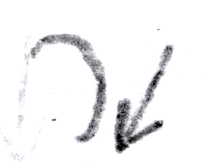
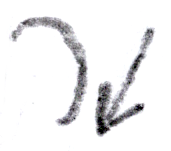
👋 Piano Motion Symbols: Extended Wrist Turn section.

diff --git a/methods/piano-motion-symbols.md b/methods/piano-motion-symbols.md
@@ -50,36 +50,23 @@ Nuance, like press *a little* or move *a lot*, may be written down like this:
 |----------------:|:----------------------------------------------------------:|:---------------------------------------------------------:|:--------------------------------------------------------------:|:------------------------------------------------------------:|
 |       __Press__ | <img src="images/press-restfully.png" height="30" />       | <img src="images/press-slightly.png" height="30" />       | <img src="images/press-right.png" height="30" />               | <img src="images/press-exaggerated.png" height="30" />       |
 |        __Move__ | <img src="images/move-restfully.png" height="30" />        | <img src="images/move-slightly.png" height="30" />        | <img src="images/move-into-keys-right.png" height="30" /> | <img src="images/move-exaggerated.png" height="30" />        |
-| __Tight Wrist__ | <img src="images/wrist-tight-restfully.png" height="30" /> | <img src="images/wrist-tight-slightly.png" height="30" /> | <img src="images/wrist-pronounced-tight.png" height="30" />    | <img src="images/wrist-tight-exaggerated.png" height="20" /> |
-| __Loose Wrist__ | <img src="images/wrist-loose-restfully.png" height="30" /> | <img src="images/wrist-loose-slightly.png" height="30" /> | <img src="images/wrist-curved-loose.png" height="30" />        | <img src="images/wrist-loose-exaggerated.png" height="30" /> |
-
-### Finger Enunciation
-
-|                                                                                  |                          |
-|----------------------------------------------------------------------------------|--------------------------|
-| <img src="images/finger-move-restfully-right.png" height="45" />                 | Move fingers restfully   |
-| <img src="images/finger-move-slightly-right.png" height="45" />                  | Move fingers slightly    |
-| <img src="images/finger-move-into-keys-or-towards-face-right.png" height="45" /> | Move fingers normally    |
-| <img src="images/finger-move-exaggerated-right.png" height="45" />               | Move fingers exaggerated |
+| __Tight Wrist__ | <img src="images/wrist-tight-restfully.png" height="30" /> | <img src="images/wrist-tight-slightly.png" height="30" /> | <img src="images/wrist-tight-pronounced.png" height="30" />    | <img src="images/wrist-tight-exaggerated.png" height="20" /> |
+| __Loose Wrist__ | <img src="images/wrist-loose-restfully.png" height="30" /> | <img src="images/wrist-loose-slightly.png" height="30" /> | <img src="images/wrist-loose-curved.png" height="30" />        | <img src="images/wrist-loose-exaggerated.png" height="30" /> |
 
 ### Tension & Release
 
-|                                                                  |                          |                                                         |
-|:----------------------------------------------------------------:|--------------------------|---------------------------------------------------------|
-| <img src="images/reach-side-ways-right.png" height="30" />       | Reach sideways           | Then let go, move hand back.                            |
-| <img src="images/reach-side-ways-left.png" height="30" />        | Reach sideways           | Then let go, move hand back.                            |
-| <img src="images/stretch.png" height="30" />                     | Stretch                  | Stretching fingers wider. But trying to release soon.   |
-| <img src="images/reach-black-keys.png" height="30" />            | Reach black keys         | If arpeggiated, might prefer crossing over instead.     |
-| <img src="images/reach-white-keys.png" height="30" />            | Reach white keys         | If arpeggiated, might prefer crossing over instead.     |
-| <img src="images/stretch-diagonally.png" height="30" />          | Stretch diagonally       | Composite of stretch sideways and reach for black keys. |
-| <img src="images/finger-move-into-keys-right.png" height="45" /> | Finger move into keys    | Pressure coming out of the fingers.                     |
-| <img src="images/arm-move-into-keys-right.png" height="45" />    | Arm move into key        | Pressure coming out of the arm.                         |
-| <img src="images/hand-resting-on-keys.png" height="30" />        | Hand resting on keys     |                                                         |
-| <img src="images/hand-resting-on-lap.png" height="30" />         | Hand resting on lap      |                                                         |
-| <img src="images/wrist-pronounced-tight.png" height="30" />      | Pronounced wrist tight   |                                                         |
-| <img src="images/wrist-curved-loose.png" height="30" />          | Curved wrist loose       |                                                         |
-| <img src="images/wrist-curved-stationary.png" height="30" />     | Curved wrist stationary  |                                                         |
-| <img src="images/wrist-pronounced-pressed.png" height="30" />    | Pronounced wrist pressed |                                                         |
+|                                                                   |                          |                                                         |
+|:-----------------------------------------------------------------:|--------------------------|---------------------------------------------------------|
+| <img src="images/reach-side-ways-right.png" height="30" />        | Reach sideways           | Then let go, move hand back.                            |
+| <img src="images/reach-side-ways-left.png" height="30" />         | Reach sideways           | Then let go, move hand back.                            |
+| <img src="images/stretch.png" height="30" />                      | Stretch                  | Stretching fingers wider. But trying to release soon.   |
+| <img src="images/reach-black-keys.png" height="30" />             | Reach black keys         | If arpeggiated, might prefer crossing over instead.     |
+| <img src="images/reach-white-keys.png" height="30" />             | Reach white keys         | If arpeggiated, might prefer crossing over instead.     |
+| <img src="images/stretch-diagonally.png" height="30" />           | Stretch diagonally       | Composite of stretch sideways and reach for black keys. |
+| <img src="images/finger-press-into-keys-right.png" height="45" /> | Finger move into keys    | Pressure coming out of the fingers.                     |
+| <img src="images/arm-press-into-keys-right.png" height="45" />    | Arm move into key        | Pressure coming out of the arm.                         |
+| <img src="images/hand-resting-on-keys.png" height="30" />         | Hand resting on keys     |                                                         |
+| <img src="images/hand-resting-on-lap.png" height="30" />          | Hand resting on lap      |                                                         |
 
 ### Jumps
 
@@ -105,9 +92,9 @@ May feel semi-smooth.
 
 ### Fingers
 
-A specific amount of fingers might displayed.  
 This might be used to say something specific about a finger in terms of motion, tension or otherwise.  
-There are 3 flavors here: flat fingers, pronounced fingers and high / curved fingers.  
+
+#### Finger Position (Single / Multiple)
 
 |                      | Flat Fingers                                             | Pronounced Fingers                                        | Curved / High Fingers                                      |
 |----------------------|:--------------------------------------------------------:|:---------------------------------------------------------:|:----------------------------------------------------------:|
@@ -118,12 +105,27 @@ There are 3 flavors here: flat fingers, pronounced fingers and high / curved fin
 | __4 Fingers__        | <img src="images/4-fingers-flat.png" height="30" />      | <img src="images/4-fingers-pronounced.png" height="30" /> | <img src="images/4-fingers-curved.png" height="30" />      |
 | __5 Fingers__        | <img src="images/5-fingers-flat.png" height="30" />      | <img src="images/5-fingers-pronounced.png" height="30" /> | <img src="images/5-fingers-curved.png" height="30" />      |
 
+#### Fingers Stationary
+
+#### Finger Enunciation
+
+|                                                                                  |                          |
+|----------------------------------------------------------------------------------|--------------------------|
+| <img src="images/finger-move-restfully-right.png" height="45" />                 | Move fingers restfully   |
+| <img src="images/finger-move-slightly-right.png" height="45" />                  | Move fingers slightly    |
+| <img src="images/finger-move-into-keys-or-towards-face-right.png" height="45" /> | Move fingers normally    |
+| <img src="images/finger-move-exaggerated-right.png" height="45" />               | Move fingers exaggerated |
+
+#### Finger Switch
+
 |                                                                       |                                    |                                                     |
 |:---------------------------------------------------------------------:|------------------------------------|-----------------------------------------------------|
 | <img src="images/switch-finger-in-place.png" height="30" />           | Switch finger (in place)           | Part of existing fingering notation.                |
 | <img src="images/switch-finger-at-different-times.png" height="30" /> | Switch finger (at different times) | At different times same key with different fingers. |
 
 ### Wrist
+
+#### Wrist Position
 
 |                                                                |                             |                                                              |                                             |                                                                    |                                           |                                                                    |                            |
 |:--------------------------------------------------------------:|-----------------------------|:------------------------------------------------------------:|---------------------------------------------|:------------------------------------------------------------------:|-------------------------------------------|:------------------------------------------------------------------:|----------------------------|
@@ -143,7 +145,7 @@ There are 3 flavors here: flat fingers, pronounced fingers and high / curved fin
 | <img src="images/wrist-move-left-variation-1.png" height="30" />   | Wrist move<br/>(left / variation 1) | <img src="images/wrist-move-right-variation-1.png" height="30" />         | Wrist move<br/>(right / variation 1)       | <img src="images/wrist-move-right-and-left-variation-1.png" height="30" />   | Wrist move<br/>(right and left / variation 1) |
 | <img src="images/wrist-move-left-variation-2.png" height="45" />   | Wrist move<br/>(left / variation 2) | <img src="images/wrist-move-right-variation-2.png" height="45" />         | Wrist move<br/>(right / variation 2)       | <img src="images/wrist-move-right-and-left-variation-2.png" height="45" />   | Wrist move<br/>(right and left / variation 2) |
 | <img src="images/wrist-move-into-keys.png" height="30" />          | Wrist move<br/>(into keys)          | <img src="images/wrist-move-into-keys-or-towards-face.png" height="40" /> | Wrist move<br/>(into keys or towards face) | <img src="images/wrist-move-towards-face.png" height="30" />                 | Wrist move<br/>(towards face)                 |
-| <img src="images/wrist-move-towards-black-keys.png" height="45" /> | Wrist Move<br/>(towards black keys) | <img src="images/wrist-move-towards-white-keys.png" height="45" />        | Wrist move<br/>(towards white keys)        | <img src="images/wrist-move-towards-black-and-white-keys.png" height="45" /> | Wrist move<br/>(towards black and white keys) |
+| <img src="images/wrist-move-towards-black-keys.png" height="45" /> | Wrist move<br/>(towards black keys) | <img src="images/wrist-move-towards-white-keys.png" height="45" />        | Wrist move<br/>(towards white keys)        | <img src="images/wrist-move-towards-black-and-white-keys.png" height="45" /> | Wrist move<br/>(towards black and white keys) |
 
 These wrist *moves* may the same as wrist *turning*:
 
@@ -151,8 +153,8 @@ These wrist *moves* may the same as wrist *turning*:
 |:------------------------------------------------------------------------:|---------------------------------------------|:------------------------------------------------------------------------:|---------------------------------------------|:----------------------------------------------------------------------------------:|-------------------------------------------------------|
 | <img src="images/wrist-move-into-keys-left.png" height="30" />           | Wrist move<br/>(into keys / left)           | <img src="images/wrist-move-towards-face-left.png" height="30" />        | Wrist move<br/>(towards face / left)        | <img src="images/wrist-move-into-keys-or-towards-face-left.png" height="30" />     | Wrist move<br/>(into keys or towards face / left)     |
 | <img src="images/wrist-move-into-keys-right.png" height="30" />          | Wrist move<br/>(into keys / right)          | <img src="images/wrist-move-towards-face-right.png" height="30" />       | Wrist move<br/>(towards face / right)       | <img src="images/wrist-move-into-keys-or-towards-face-right.png" height="30" />    | Wrist move<br/>(into keys or towards face / right)    |
-| <img src="images/wrist-move-towards-black-keys-right.png" height="45" /> | Wrist Move<br/>(towards black keys / right) | <img src="images/wrist-move-towards-white-keys-right.png" height="45" /> | Wrist move<br/>(towards white keys / right) | <img src="images/wrist-move-towards-black-and-white-keys-right.png" height="45" /> | Wrist move<br/>(towards black and white keys / right) |
-| <img src="images/wrist-move-towards-black-keys-left.png" height="45" />  | Wrist Move<br/>(towards black keys / left)  | <img src="images/wrist-move-towards-white-keys-left.png" height="45" />  | Wrist move<br/>(towards white keys / left)  | <img src="images/wrist-move-towards-black-and-white-keys-left.png" height="45" />  | Wrist move<br/>(towards black and white keys / left)  |
+| <img src="images/wrist-move-towards-black-keys-right.png" height="45" /> | Wrist move<br/>(towards black keys / right) | <img src="images/wrist-move-towards-white-keys-right.png" height="45" /> | Wrist move<br/>(towards white keys / right) | <img src="images/wrist-move-towards-black-and-white-keys-right.png" height="45" /> | Wrist move<br/>(towards black and white keys / right) |
+| <img src="images/wrist-move-towards-black-keys-left.png" height="45" />  | Wrist move<br/>(towards black keys / left)  | <img src="images/wrist-move-towards-white-keys-left.png" height="45" />  | Wrist move<br/>(towards white keys / left)  | <img src="images/wrist-move-towards-black-and-white-keys-left.png" height="45" />  | Wrist move<br/>(towards black and white keys / left)  |
 
 A composite, to show some flexibility:
 
@@ -171,20 +173,34 @@ Is usually downward, not likely in any other direction.
 
 #### Wrist Turn
 
-|                                                               |                                   |                                                              |                                  |                                                                  |                                       |
-|:-------------------------------------------------------------:|-----------------------------------|:------------------------------------------------------------:|----------------------------------|:----------------------------------------------------------------:|---------------------------------------|
-| <img src="images/wrist-turn-right.png" height="30" />         | Wrist turn (right) / 'pivot'      | <img src="images/wrist-turn-left.png" height="30" />         | Wrist turn (left) / 'pivot'      | <img src="images/wrist-turn-right-and-left.png" height="30" />   | wrist turn (right and left) / 'pivot' |
-| <img src="images/wrist-turn-forward-right.png" height="45" /> | Wrist turn forward (right) / flap | <img src="images/wrist-turn-forward-left.png" height="45" /> | Wrist turn forward (left) / flap | <img src="images/wrist-turn-facing-you-right.png" height="30" /> | wrist turn (facing you / right)       |
+|                                                                            |                                                    |                                                                            |                                                 |                                                                           |                                          |
+|:--------------------------------------------------------------------------:|----------------------------------------------------|:--------------------------------------------------------------------------:|-------------------------------------------------|:-------------------------------------------------------------------------:|------------------------------------------|
+| <img src="images/wrist-turn-right.png" height="30" />                      | Wrist turn (right) / 'pivot'                       | <img src="images/wrist-turn-left.png" height="30" />                       | Wrist turn (left) / 'pivot'                     | <img src="images/wrist-turn-right-and-left.png" height="30" />            | wrist turn (right and left) / 'pivot'    |
+| <img src="images/wrist-turn-facing-you-right.png" height="30" />           | wrist turn (facing you / right)                    | <img src="images/wrist-turn-facing-you-left.png" height="30" />            | wrist turn (facing you / left)                  | <img src="images/wrist-turn-facing-you-right-and-left.png" height="30" /> | wrist turn (facing you / right and left) |
+| <img src="images/wrist-turn-forward-right.png" height="45" />              | Wrist turn (forward / right) / 'flap'              | <img src="images/wrist-turn-forward-left.png" height="45" />               | Wrist turn forward (left) / 'flap'              |                                                                           |                                          |
+| <img src="images/wrist-turn-backward-right.png" height="45" />             | Wrist turn (backward / right) / 'flap'             | <img src="images/wrist-turn-backward-left.png" height="45" />              | Wrist turn backward (left) / 'flap'             |                                                                           |                                          |
+| <img src="images/wrist-turn-forward-and-backward-right.png" height="45" /> | Wrist turn (forward and backward / right) / 'flap' | <img src="images/wrist-turn-forward-and-backward-left.png" height="45" />  | Wrist turn forward and backward (left) / 'flap' |                                                                           |                                          |
+
+#### Wrist Stress
+
+(Combined with wrist positions.)
+
+|                                                               |                            |                                                               |                            |
+|:-------------------------------------------------------------:|----------------------------|:-------------------------------------------------------------:|----------------------------|
+| <img src="images/wrist-tight-flat-fingers.png" height="30" /> | Wrist tight (flat fingers) | <img src="images/wrist-loose-flat-fingers.png" height="30" /> | Wrist loose (flat fingers) |
+| <img src="images/wrist-tight-pronounced.png" height="30" />   | Wrist tight (pronounced)   | <img src="images/wrist-loose-pronounced.png" height="30" />   | Wrist loose (pronounced)   |
+| <img src="images/wrist-tight-curved.png" height="30" />       | Wrist tight (curved)       | <img src="images/wrist-loose-curved.png" height="30" />       | Wrist loose (curved)       |
+| <img src="images/wrist-tight-high.png" height="45" />         | Wrist tight (high)         | <img src="images/wrist-loose-high.png" height="45" />         | Wrist loose (high)         |
 
 ### Torso
 
-|                                                            |                                      |
-|:----------------------------------------------------------:|--------------------------------------|
-| <img src="images/torso-plus-arms.png" height="30" />       | Torso (+ arms)                       |
-| <img src="images/torso-sway-right.png" height="30" />      | Torso sway (right)                   |
-| <img src="images/torso-sway-left.png" height="30" />       | Torso sway (left)                    |
-| <img src="images/torso-tilt-forward.png" height="30" />    | Torso tilt forward                   |
-| <img src="images/torso-tilt-backward.png" height="30" />   | Torso tilt backward                  |
+|                                                           |                                     |
+|:---------------------------------------------------------:|-------------------------------------|
+| <img src="images/torso-plus-arms.png" height="30" />      | Torso (+ arms)                      |
+| <img src="images/torso-sway-right.png" height="30" />     | Torso sway (right)                  |
+| <img src="images/torso-sway-left.png" height="30" />      | Torso sway (left)                   |
+| <img src="images/torso-tilt-forward.png" height="30" />   | Torso tilt forward                  |
+| <img src="images/torso-tilt-backward.png" height="30" />  | Torso tilt backward                 |
 | <img src="images/torso-turn-side-ways.png" height="30" /> | Torso turn sideways (back and legs) |
 
 ### Arm

diff --git a/archive/piano-motion-symbols-old.md b/archive/piano-motion-symbols-old.md
@@ -35,6 +35,8 @@ Symbols currently out of favor.
 | <img src="images/wrist-tilted-old.png" height="45" />                                        | Wrist tilted                                              |
 | <img src="images/switch-finger-in-place-old.png" height="30" />                              | Switch finger (in place)                                  |
 | <img src="images/3-fingers-pronounced-mid-finger-deeper-in-keys-old.png" height="30" />      | 3 fingers (pronounced / mid finger deeper in keys)        |
+| <img src="images/wrist-curved-stationary.png" height="30" />                                 | Curved wrist stationary                                   |
+| <img src="images/wrist-pronounced-pressed.png" height="30" />                                | Pronounced wrist pressed                                  |
 | <img src="images/wrist-move-right-old.png" height="30" />                                    | Wrist move (right)                                        |
 | <img src="images/wrist-move-left-old.png" height="30" />                                     | Wrist move (left)                                         |
 | <img src="images/wrist-move-towards-white-keys-old.png" height="45" />                       | Wrist move (towards white keys)                           |
